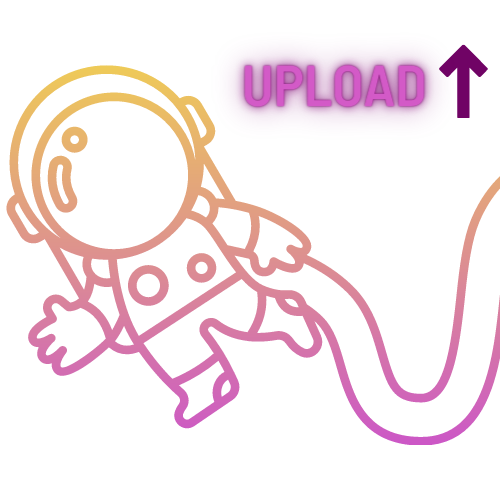
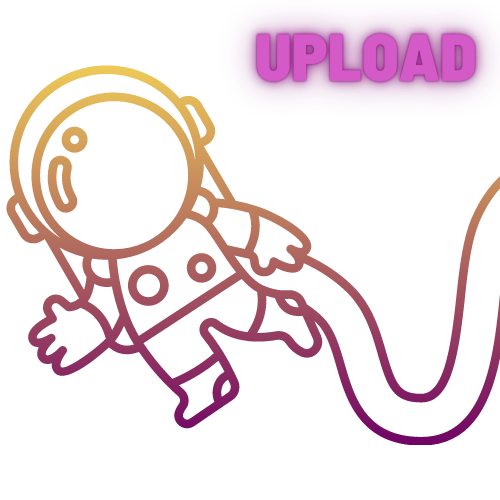
Add image to Sign in page

Changed region(s): [[0.0, 0.3, 1.0, 0.9], [0.45, 0.03, 0.99, 0.24], [0.69, 0.36, 1.0, 0.81]]

diff --git a/src/pages/auth/SignInForm.js b/src/pages/auth/SignInForm.js
@@ -6,6 +6,7 @@ import Button from "react-bootstrap/Button";
 import Col from "react-bootstrap/Col";
 import Row from "react-bootstrap/Row";
 import Image from "react-bootstrap/Image";
+import signin from "../../assets/signin.png";
 import Container from "react-bootstrap/Container";
 import { Link, useHistory } from "react-router-dom";
 import styles from "../../styles/SignInUpForm.module.css";
@@ -104,7 +105,10 @@ function SignInForm() {
       <Col
         md={6}
         className={`my-auto d-none d-md-block p-2 ${styles.SignInCol}`}>
-        <Image className={`${appStyles.FillerImage}`} />
+        <Image
+          className={`${appStyles.FillerImage}`}
+          src={signin}    
+        />
       </Col>
     </Row>
   );
